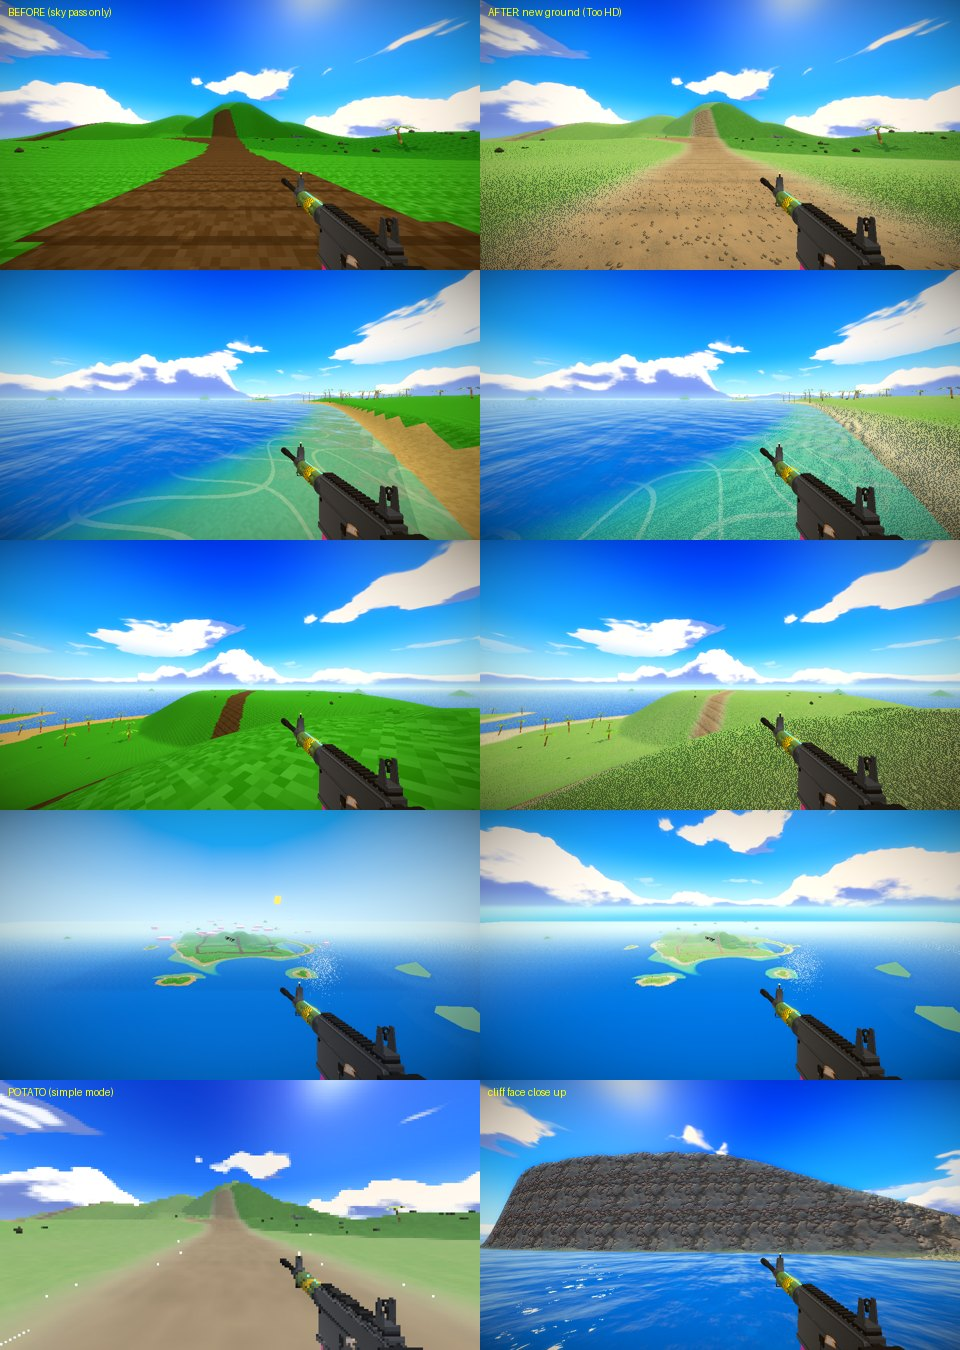
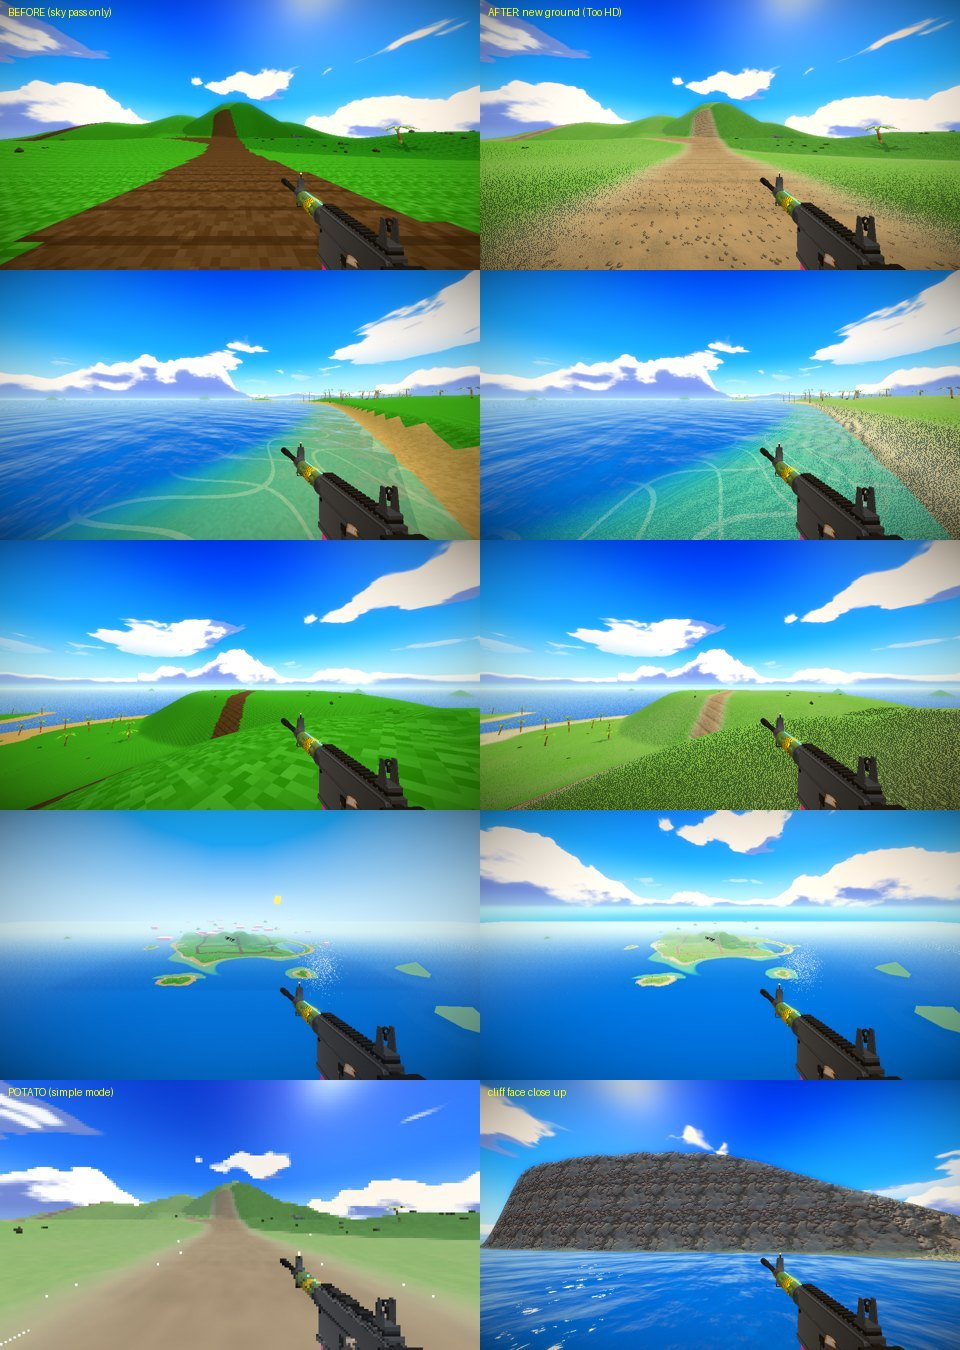
Battle Island's grass is a lusher green
Claude-Session: https://claude.ai/code/session_011tKQCu5LU3i2Y1YbQQYjoj

Changed region(s): [[0.5625, 0.4978, 1.0, 0.5911], [0.5, 0.0933, 0.5938, 0.1244], [0.875, 0.1556, 0.9062, 0.1867]]

diff --git a/public/js/biground.js b/public/js/biground.js
@@ -10,7 +10,7 @@ import * as THREE from 'three';
 import { jankUniforms } from './jank.js';
 
 export const BI_GROUND = {
-  grass: [0.30, 0.60, 0.16], grassDry: [0.60, 0.66, 0.26], jungle: [0.16, 0.38, 0.10],
+  grass: [0.22, 0.56, 0.10], grassDry: [0.50, 0.64, 0.18], jungle: [0.16, 0.38, 0.10],
   sand: [0.95, 0.85, 0.62], wet: [0.60, 0.52, 0.38], rock: [0.56, 0.53, 0.50], rockWarm: [0.62, 0.50, 0.40], road: [0.50, 0.36, 0.22],
   bump: 0.9, // how strongly the detail lifts the light
 };
@@ -101,7 +101,7 @@ const GLSL_MAP = `
   float wet = smoothstep( uSea + 0.35, uSea - 0.1, P.y );
   // each surface: its detail texture, its colours
   vec3 g = texture2D( uGrass, P.xz * 0.31 ).rgb;
-  vec3 gc = mix( cGrass, cDry, clamp( g.g * 0.55 + mac.r * 0.6 - 0.35, 0.0, 1.0 ) ) * ( 0.62 + 0.62 * g.r );
+  vec3 gc = mix( cGrass, cDry, clamp( g.g * 0.4 + mac.r * 0.55 - 0.42, 0.0, 1.0 ) ) * ( 0.58 + 0.6 * g.r );
   vec3 jc = cJungle * ( 0.6 + 0.6 * g.r ) * ( 0.85 + 0.3 * mac.b );
   vec3 s = texture2D( uSand, P.xz * 0.13 ).rgb;
   vec3 sc = mix( cSand, cWet, wet ) * ( 0.78 + 0.32 * s.r ) * ( 0.94 + 0.12 * mac.g );
